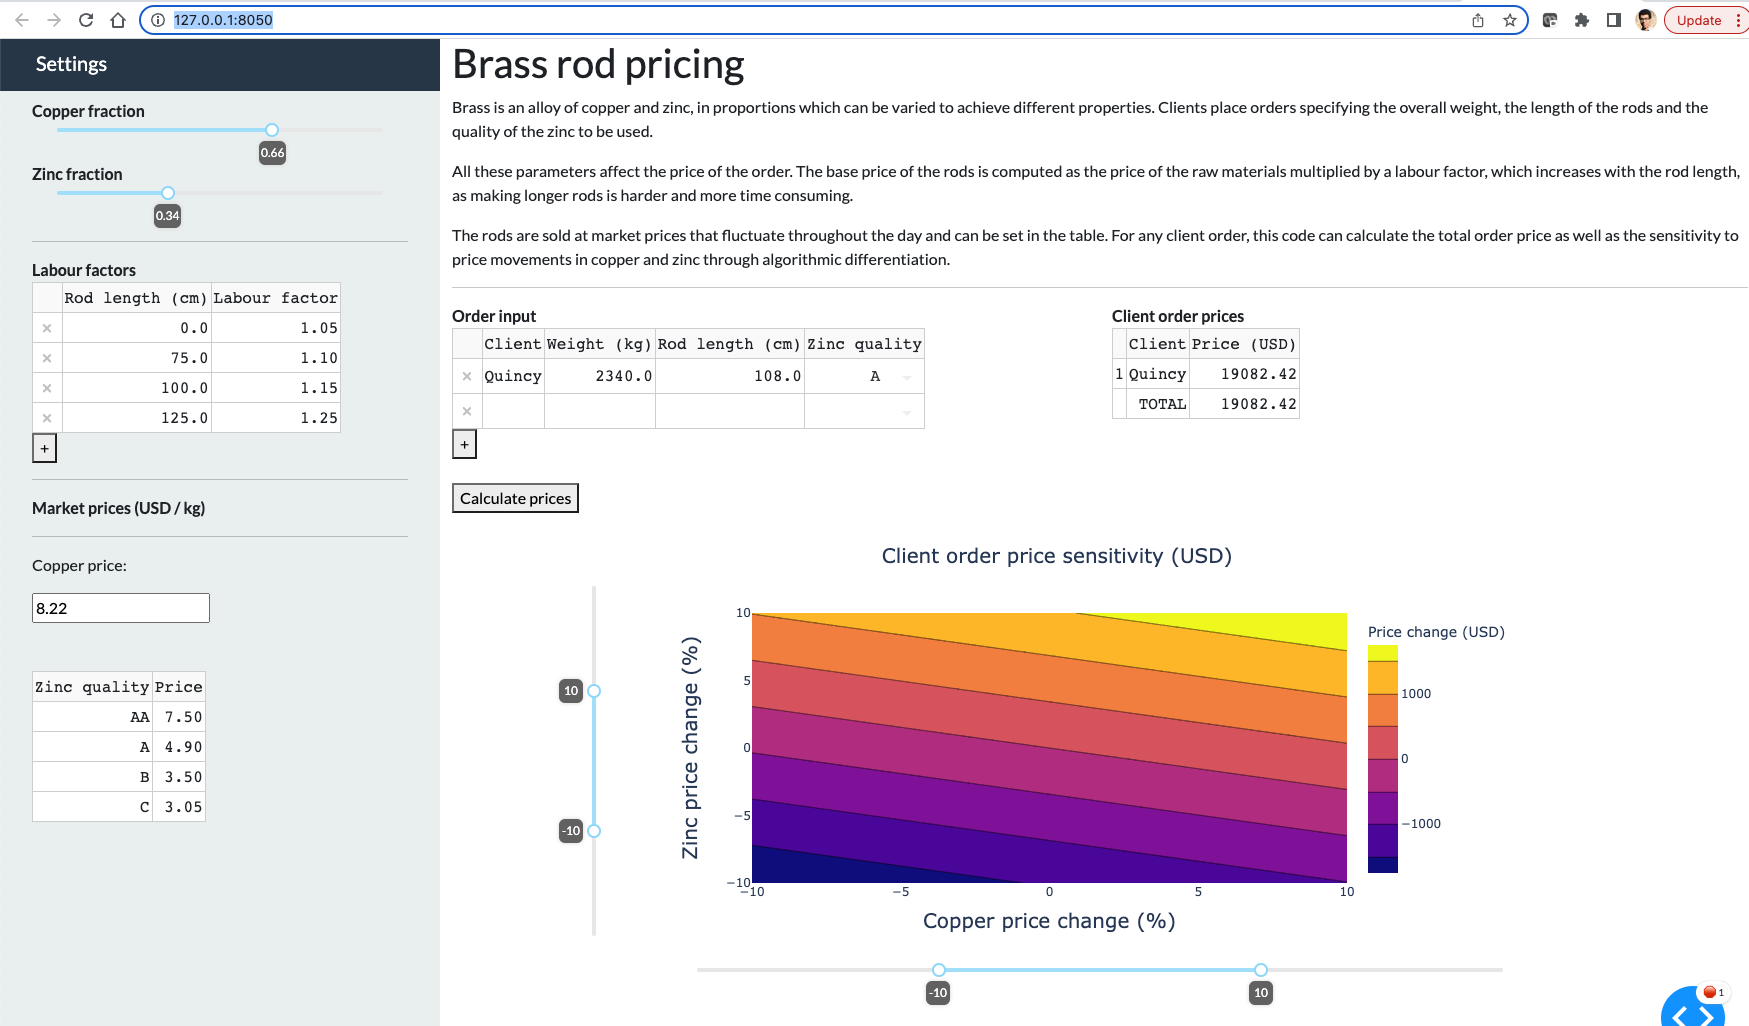
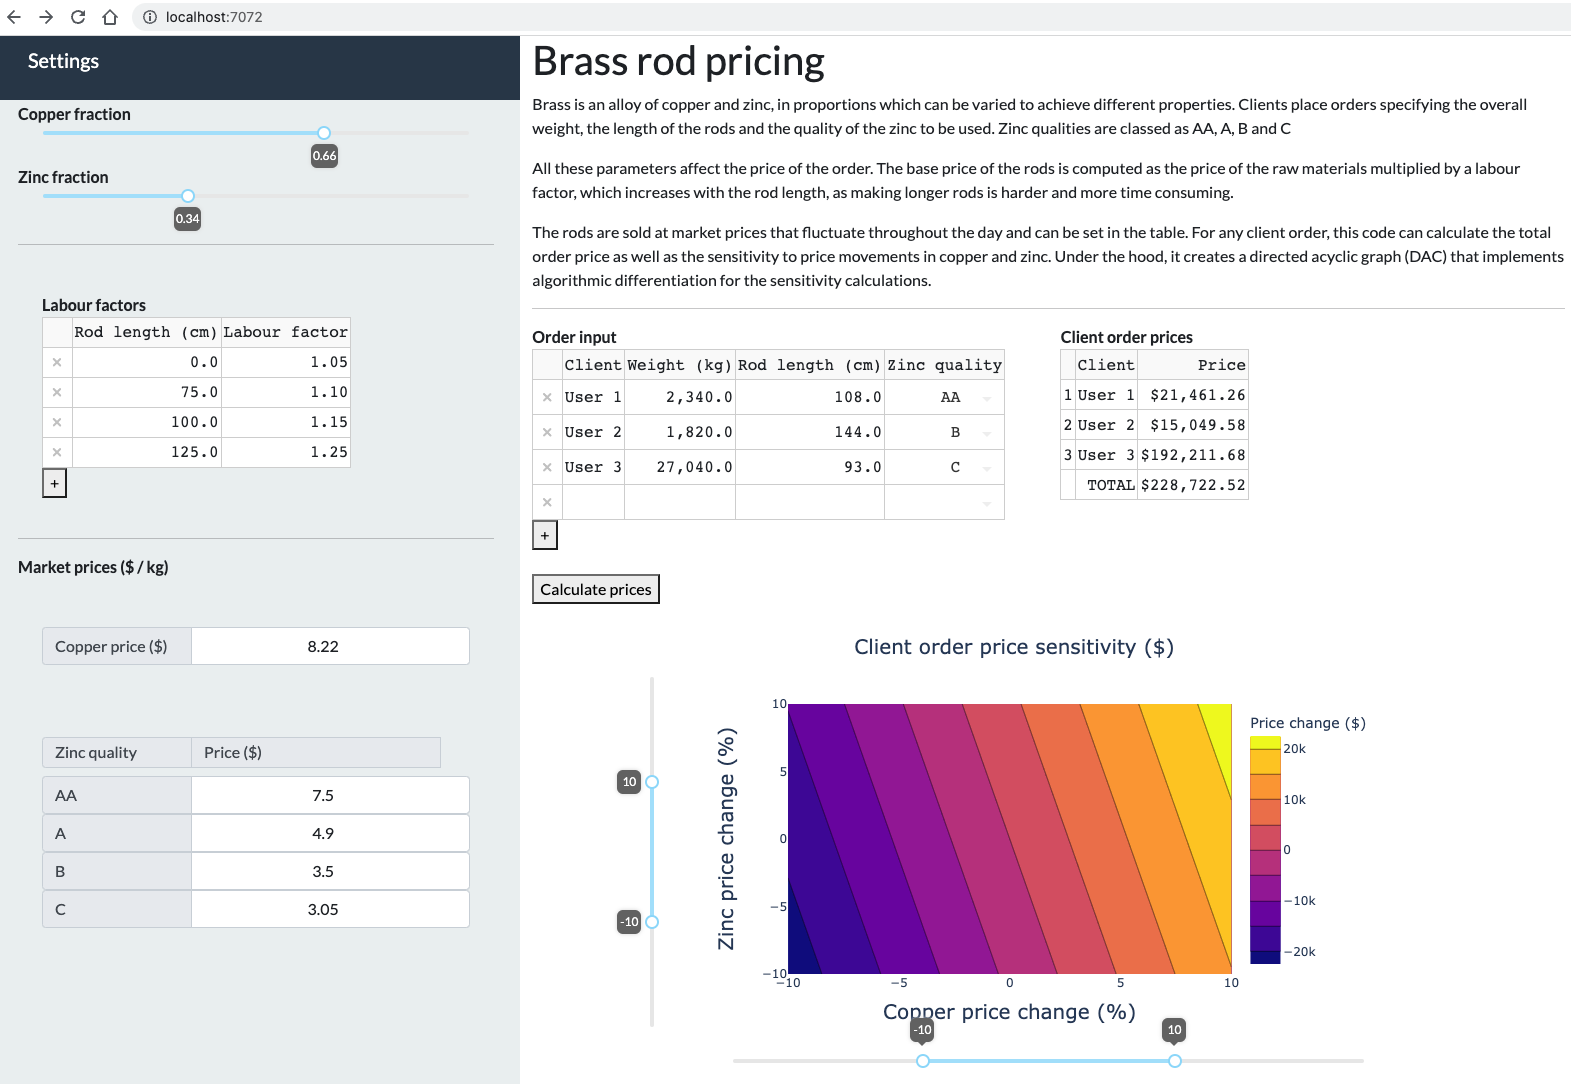
add image to readme

diff --git a/src/assets/table.css b/src/assets/table.css
@@ -20,3 +20,53 @@ h5 {
     margin-top: "12px";
     margin-left: "24px";
 }
+
+.price-input-block {
+    display: "inline-block";
+    vertical-align: "top";
+    margin-left: "0.25vw";
+    margin-top: "0.25vw";
+    /* width: 300; */
+}
+
+.input-group-text {
+    display: -ms-flexbox;
+    display: flex;
+    -ms-flex-align: center;
+    align-items: center;
+    padding: .175rem .75rem;
+    margin-bottom: 0;
+    font-size: 1rem;
+    font-weight: 400;
+    line-height: 1.5;
+    color: #495057;
+    text-align: center;
+    white-space: nowrap;
+    background-color: #e9ecef;
+    border: 1px solid #ced4da;
+    width: 150px;
+    border-top-left-radius: 0.25rem;
+    border-top-right-radius: 0rem;
+    border-bottom-right-radius: 0rem;
+    border-bottom-left-radius: 0.25rem;
+}
+
+.input-group-numeric {
+    display: -ms-flexbox;
+    display: flex;
+    -ms-flex-align: center;
+    align-items: center;
+    padding: .375rem .75rem;
+    margin-bottom: 0;
+    font-size: 1rem;
+    font-weight: 400;
+    line-height: 1.5;
+    text-align: center;
+    white-space: nowrap;
+    border: 1px solid #ced4da;
+    width: 100px;
+    border-top-left-radius: 0rem;
+    border-top-right-radius: 0.25rem;
+    border-bottom-right-radius: 0.25rem;
+    border-bottom-left-radius: 0rem;
+}

diff --git a/src/main.py b/src/main.py
@@ -55,95 +55,121 @@ sidebar = html.Div(
                             marks=None,
                         ),
                         html.Hr(),
-                        html.B(
-                            "Labour factors",
-                            className="font-weight-bold",
-                        ),
-                        dash_table.DataTable(
-                            id="labour-factor-table",
-                            columns=[
-                                {
-                                    "name": "Rod length (cm)",
-                                    "id": "rod-length",
-                                    "type": "numeric",
-                                    "format": {"specifier": ".1f"},
-                                    "on_change": {
-                                        "action": "coerce",
-                                        "failure": "default",
-                                    },
-                                },
-                                {
-                                    "name": "Labour factor",
-                                    "id": "labour-factor",
-                                    "type": "numeric",
-                                    "format": {"specifier": ".2f"},
-                                    "on_change": {"failure": "default"},
-                                    "validation": {"default": ""},
-                                },
+                        html.Div(
+                            children=[
+                                html.B(
+                                    "Labour factors",
+                                    className="font-weight-bold",
+                                ),
+                                dash_table.DataTable(
+                                    id="labour-factor-table",
+                                    columns=[
+                                        {
+                                            "name": "Rod length (cm)",
+                                            "id": "rod-length",
+                                            "type": "numeric",
+                                            "format": {"specifier": ".1f"},
+                                            "on_change": {
+                                                "action": "coerce",
+                                                "failure": "default",
+                                            },
+                                        },
+                                        {
+                                            "name": "Labour factor",
+                                            "id": "labour-factor",
+                                            "type": "numeric",
+                                            "format": {"specifier": ".2f"},
+                                            "on_change": {"failure": "default"},
+                                            "validation": {"default": ""},
+                                        },
+                                    ],
+                                    data=[
+                                        {"rod-length": x, "labour-factor": y}
+                                        for x, y in zip(
+                                            [0, 75.0, 100, 125], [1.05, 1.1, 1.15, 1.25]
+                                        )
+                                    ],
+                                    editable=True,
+                                    row_deletable=True,
+                                    fill_width=False,
+                                ),
+                                # Add row button
+                                html.Button(
+                                    "+", id="labour-factor-rows-button", n_clicks=0
+                                ),
                             ],
-                            data=[
-                                {"rod-length": x, "labour-factor": y}
-                                for x, y in zip(
-                                    [0, 75.0, 100, 125], [1.05, 1.1, 1.15, 1.25]
-                                )
-                            ],
-                            editable=True,
-                            row_deletable=True,
-                            fill_width=False,
+                            className="mb-2 mt-4 p-4 price-input-block",
                         ),
-                        # Add row button
-                        html.Button("+", id="labour-factor-rows-button", n_clicks=0),
                         html.Hr(),
                         html.B(
                             "Market prices ($ / kg)",
                             className="font-weight-bold",
                         ),
-                        html.Br(),
-                        html.Br(),
-                        dbc.InputGroup(
-                            [
-                                dbc.InputGroupText("Copper price $"),
-                                dbc.Input(
-                                    id="copper-price",
-                                    placeholder=8.22,
-                                    type="number",
-                                    min=0.01,
-                                    value=8.22,
-                                ),
-                            ],
-                            className="mb-2",
+                        # Market prices for copper and zinc
+                        html.Div(
+                            className="price-input-block",
+                            children=dbc.InputGroup(
+                                [
+                                    dbc.InputGroupText(
+                                        "Copper", className="input-group-text"
+                                    ),
+                                    dbc.Input(
+                                        className="input-group-numeric",
+                                        id="copper-price",
+                                        placeholder=8.22,
+                                        type="number",
+                                        min=0.01,
+                                        value=8.22,
+                                    ),
+                                ],
+                                className="mb-2 mt-4 p-4 price-input-block",
+                            ),
                         ),
-                        html.Br(),
-                        dash_table.DataTable(
-                            id="zinc-price-table",
-                            columns=[
-                                {
-                                    "name": "Zinc quality",
-                                    "id": "zinc-quality",
-                                    "type": "text",
-                                    "editable": False,
-                                },
-                                {
-                                    "name": "Price",
-                                    "id": "zinc-prices",
-                                    "type": "numeric",
-                                    "format": FormatTemplate.money(2),
-                                    "editable": True,
-                                },
-                            ],
-                            data=[
-                                {"zinc-quality": x, "zinc-prices": p}
-                                for x, p in zip(
+                        html.Div(
+                            id="zinc-prices-input",
+                            children=[
+                                #     dbc.InputGroup(
+                                #         [
+                                #             dbc.InputGroupText(
+                                #                 "Zinc quality", className="input-group-text"
+                                #             ),
+                                #             dbc.InputGroupText(
+                                #                 "Price ($)",
+                                #                 className="input-group-text",
+                                #                 style={"width": "250px"},
+                                #             ),
+                                #         ],
+                                #         className="mb-2",
+                                #     ),
+                                # ]+
+                                #  [
+                                dbc.InputGroup(
+                                    [
+                                        dbc.InputGroupText(
+                                            "Zinc " + "(" + quality.upper() + ")",
+                                            className="input-group-text",
+                                        ),
+                                        dbc.Input(
+                                            className="input-group-numeric",
+                                            id="zinc-price-" + quality.lower(),
+                                            placeholder=price,
+                                            type="number",
+                                            min=0.01,
+                                            step=0.01,
+                                            value=price,
+                                        ),
+                                    ],
+                                )
+                                for quality, price in zip(
                                     QUALITY.get_all_qualities(), [7.5, 4.9, 3.5, 3.05]
                                 )
                             ],
-                            row_deletable=False,
-                            fill_width=False,
+                            className="mb-2 mt-4 p-4 price-input-block",
                         ),
                     ]
                 )
             ],
-            style={"height": "110vh", "margin": "8px", "overflow": "scroll"},
+            style={"height": "110vh", "margin": "2px", "overflow": "scroll"},
         ),
     ]
 )
@@ -160,7 +186,7 @@ content = html.Div(
                     [
                         html.H2("Brass rod pricing"),
                         html.P(
-                            "Brass is an alloy of copper and zinc, in proportions which can be varied to achieve different properties. Clients place orders specifying the overall weight, the length of the rods and the quality of the zinc to be used. Zinc qualities are classed as AA, A, B and C"
+                            "Brass is an alloy of copper and zinc, in proportions which can be varied to achieve different properties. Clients place orders specifying the overall weight, the length of the rods and the quality of the zinc to be used. Zinc qualities are classed as AA, A, B and C."
                         ),
                         html.P(
                             "All these parameters affect the price of the order. The base price of the rods is computed as the price of the raw materials multiplied by a labour factor, which increases with the rod length, as making longer rods is harder and more time consuming."
@@ -383,9 +409,16 @@ def extract_market_and_static_data(
 
     market_data.set_price(copper_price, METALS.COPPER, QUALITY.DEFAULT)
 
-    for row in zinc_prices:
-        quality = QUALITY(row["zinc-quality"])
-        price = row["zinc-prices"]
+    retrieved_zinc_prices = [
+        (
+            row["props"]["children"][1]["props"]["id"],
+            row["props"]["children"][1]["props"]["value"],
+        )
+        for row in zinc_prices
+        if row["props"]["children"][1]["type"] == "Input"
+    ]
+    for id, price in retrieved_zinc_prices:
+        quality = QUALITY(id.split("-")[-1].upper())
         market_data.set_price(price, METALS.ZINC, quality)
 
     return static_data, market_data
@@ -399,15 +432,10 @@ def extract_market_and_static_data(
     State("copper-fraction-slider", "value"),
     State("labour-factor-table", "data"),
     State("copper-price", "value"),
-    State("zinc-price-table", "data"),
+    State("zinc-prices-input", "children"),
 )
 def compute_client_prices(
-    n_clicks,
-    order_data,
-    copper_fraction,
-    labour_factors,
-    copper_price,
-    zinc_prices,
+    n_clicks, order_data, copper_fraction, labour_factors, copper_price, zinc_prices
 ):
     if n_clicks == 0:
         return [
@@ -450,7 +478,7 @@ def compute_client_prices(
         State("copper-fraction-slider", "value"),
         State("labour-factor-table", "data"),
         State("copper-price", "value"),
-        State("zinc-price-table", "data"),
+        State("zinc-prices-input", "children"),
     ],
 )
 def compute_price_shock(

diff --git a/ReadMe.md b/ReadMe.md
@@ -14,7 +14,8 @@ Ensure Docker and Docker Compose are installed on the system.
 Create and run the Docker container with:
 `docker-compose up`
 
-Open an internet browser and navigate to http://127.0.0.1:7071/ (this is the local host)
+Open an internet browser and navigate to http://127.0.0.1:7071/ (this is the local host) to see the UI.
+<img src="/docs/ui-example.png" alt="UI sample">
 
 ## Enter parameters in the user interface
 Before the price calculation, we need some parameters. Below data field can be changed if desired:
